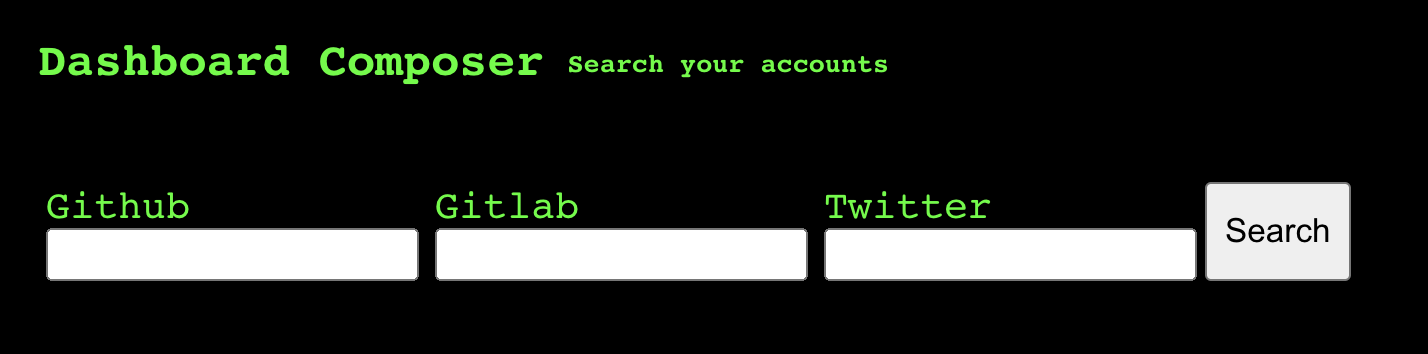
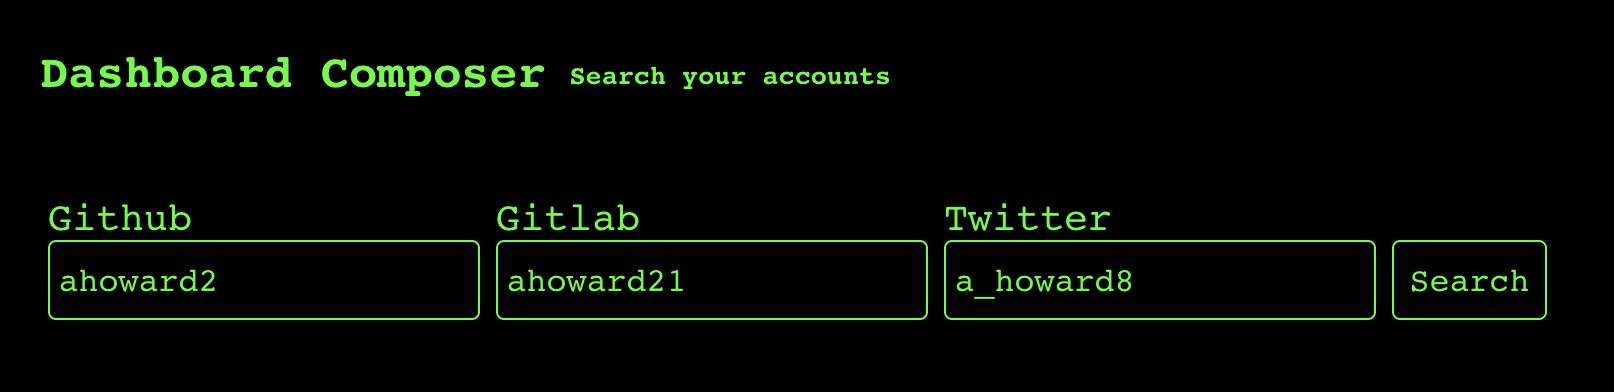
styling updates

Changed region(s): [[0.0308, 0.4972, 0.9552, 0.839], [0.0, 0.1243, 0.6162, 0.2486]]

diff --git a/src/client/components/SearchForm/SearchForm.styles.ts b/src/client/components/SearchForm/SearchForm.styles.ts
@@ -13,6 +13,33 @@ const SearchFormWrapper = styled.div`
       padding-left: 0.2rem;
       padding-right: 0.2rem;
     }
+    input:-webkit-autofill, input:-webkit-autofill:hover, input:-webkit-autofill:focus {
+      background-color: #000000;
+      transition: background-color 600000s 0s, color 600000s 0s;
+    }
+    input {
+      height: 2rem;
+      border: solid 1px lime;
+      border-radius: 0.2rem;
+      padding: 0.2rem;
+      background-color: #000000;
+      color: lime;
+      font-family: "VT323", monospace;
+    }
+    input:focus {
+      border: solid 1px lime;
+      outline: none;
+    }
+    button {
+      background-color: #000000;
+      border: 1px solid lime;
+      border-radius: 0.2rem;
+      color: lime;
+      font-family: "VT323", monospace;
+      height: 2rem;
+      align-self: end;
+      margin-left: 0.2rem;
+
   }
 `;
 

diff --git a/src/client/App.tsx b/src/client/App.tsx
@@ -29,7 +29,7 @@ const App = () => {
             element: async () => (
               <Suspense
                 fallback={
-                  <Loading /> /* Make this a <Navigate to='/failure'/> */
+                  <Loading /> /* Loads so fast making this is a little janky */
                 }
               >
                 <Home></Home>
@@ -41,7 +41,7 @@ const App = () => {
             element: async () => (
               <Suspense
                 fallback={
-                  <Loading /> /* Make this a <Navigate to='/failure'/> */
+                  <Loading /> /* Loads so fast making this is a little janky */
                 }
               >
                 <Dashboard></Dashboard>

diff --git a/README.md b/README.md
@@ -21,7 +21,7 @@
 
 - User interface built with [React](https://reactjs.org/).
   - Custom Webpack configuration with [esbuild-loader](https://github.com/privatenumber/esbuild-loader) for ⚡.
-    - Suspense boundary on pages for small main bundle (could load pages from remote locations - module federation 😉).
+    - Suspense boundary on pages for tiny main bundle (could load pages from remote locations - module federation 😉).
 - Client routing with [React Location](https://react-location.tanstack.com/).
   - All data requirements handled at the route level to decouple initiating data fetching from component rendering.
 - Client queries and caching with [React Query](https://react-query.tanstack.com/).
